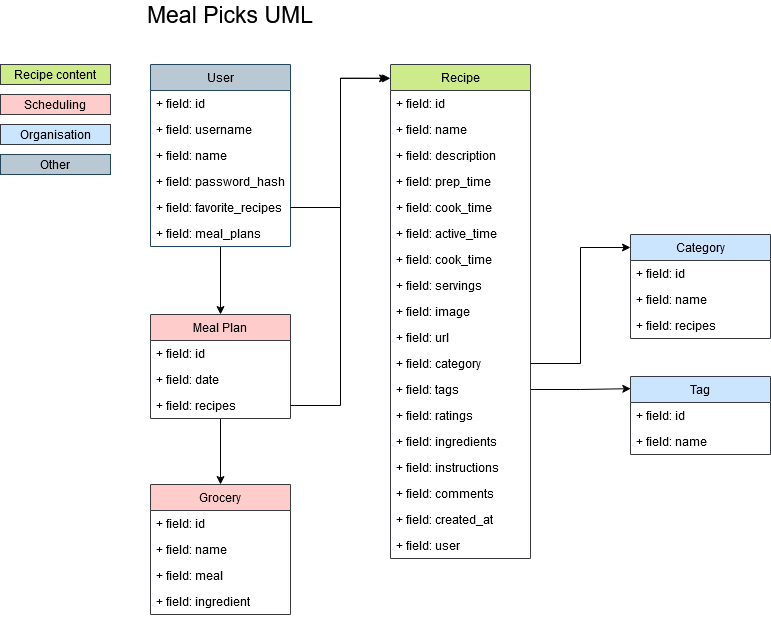
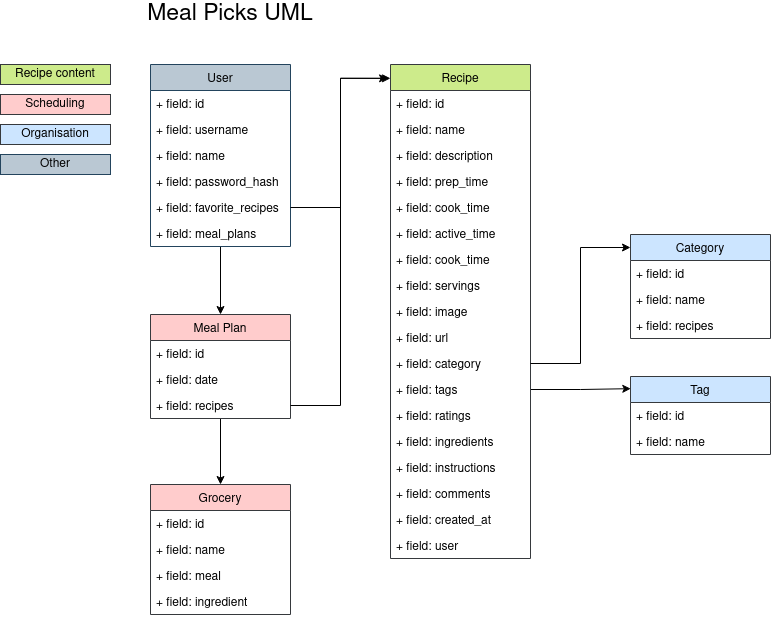
docs: Update README

diff --git a/README.md b/README.md
@@ -4,6 +4,7 @@
 
 ## Table of contents
 
+- [Endpoints](https://github.com/joedravarol/meal-picks-backend#endpoints)
 - [Technical Design](https://github.com/joedravarol/meal-picks-backend#technical-design)
 - [Getting Started](https://github.com/joedravarol/meal-picks-backend#getting-started)
 - [Built With](https://github.com/joedravarol/meal-picks-backend#built-with)
@@ -11,9 +12,17 @@
 - [License](https://github.com/joedravarol/meal-picks-backend#license)
 - [Acknowledgement](https://github.com/joedravarol/meal-picks-backend#acknowledgement)
 
+## Endpoints
+
+- `/api/recipes`
+- `/api/favoriteRecipes`
+- `/api/mealPlans`
+- `/api/users`
+- `/api/login`
+
 ## Technical Design
 
-![Meal Picks UML](public/images/uml.svg)
+![Meal Picks UML](public/images/uml.png)
 
 The application is a simple CRUD system around recipes and meals. In the domain model, a **recipe** is a set of instructions for preparing a particular dish, including the list of ingredients required. A **meal plan** is a dish planned at a specified date.
 
